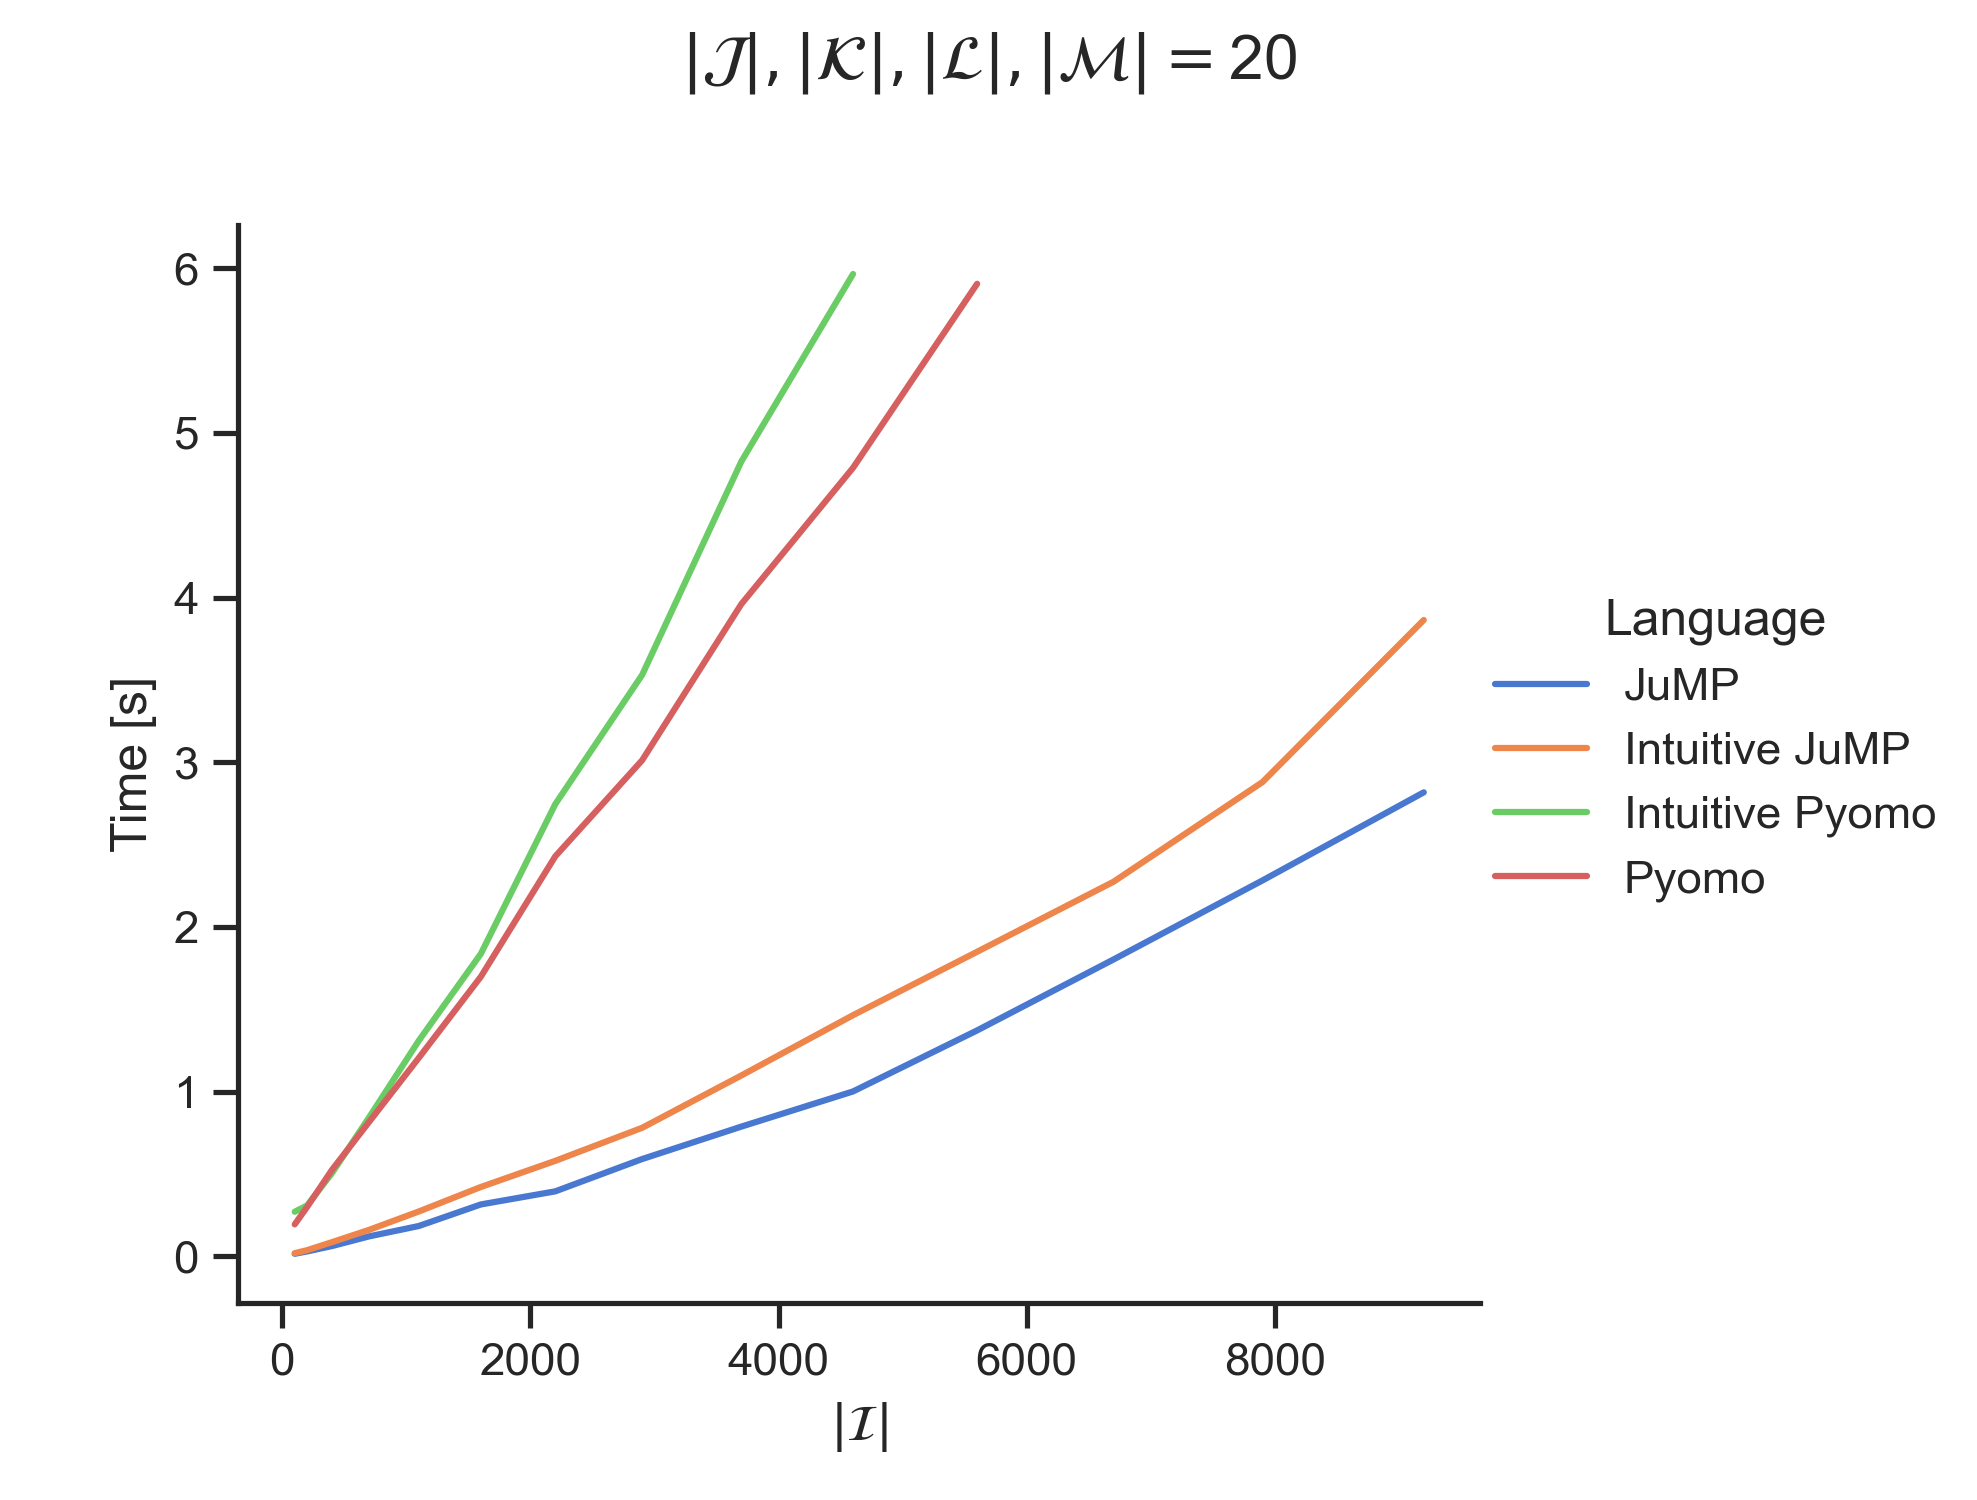
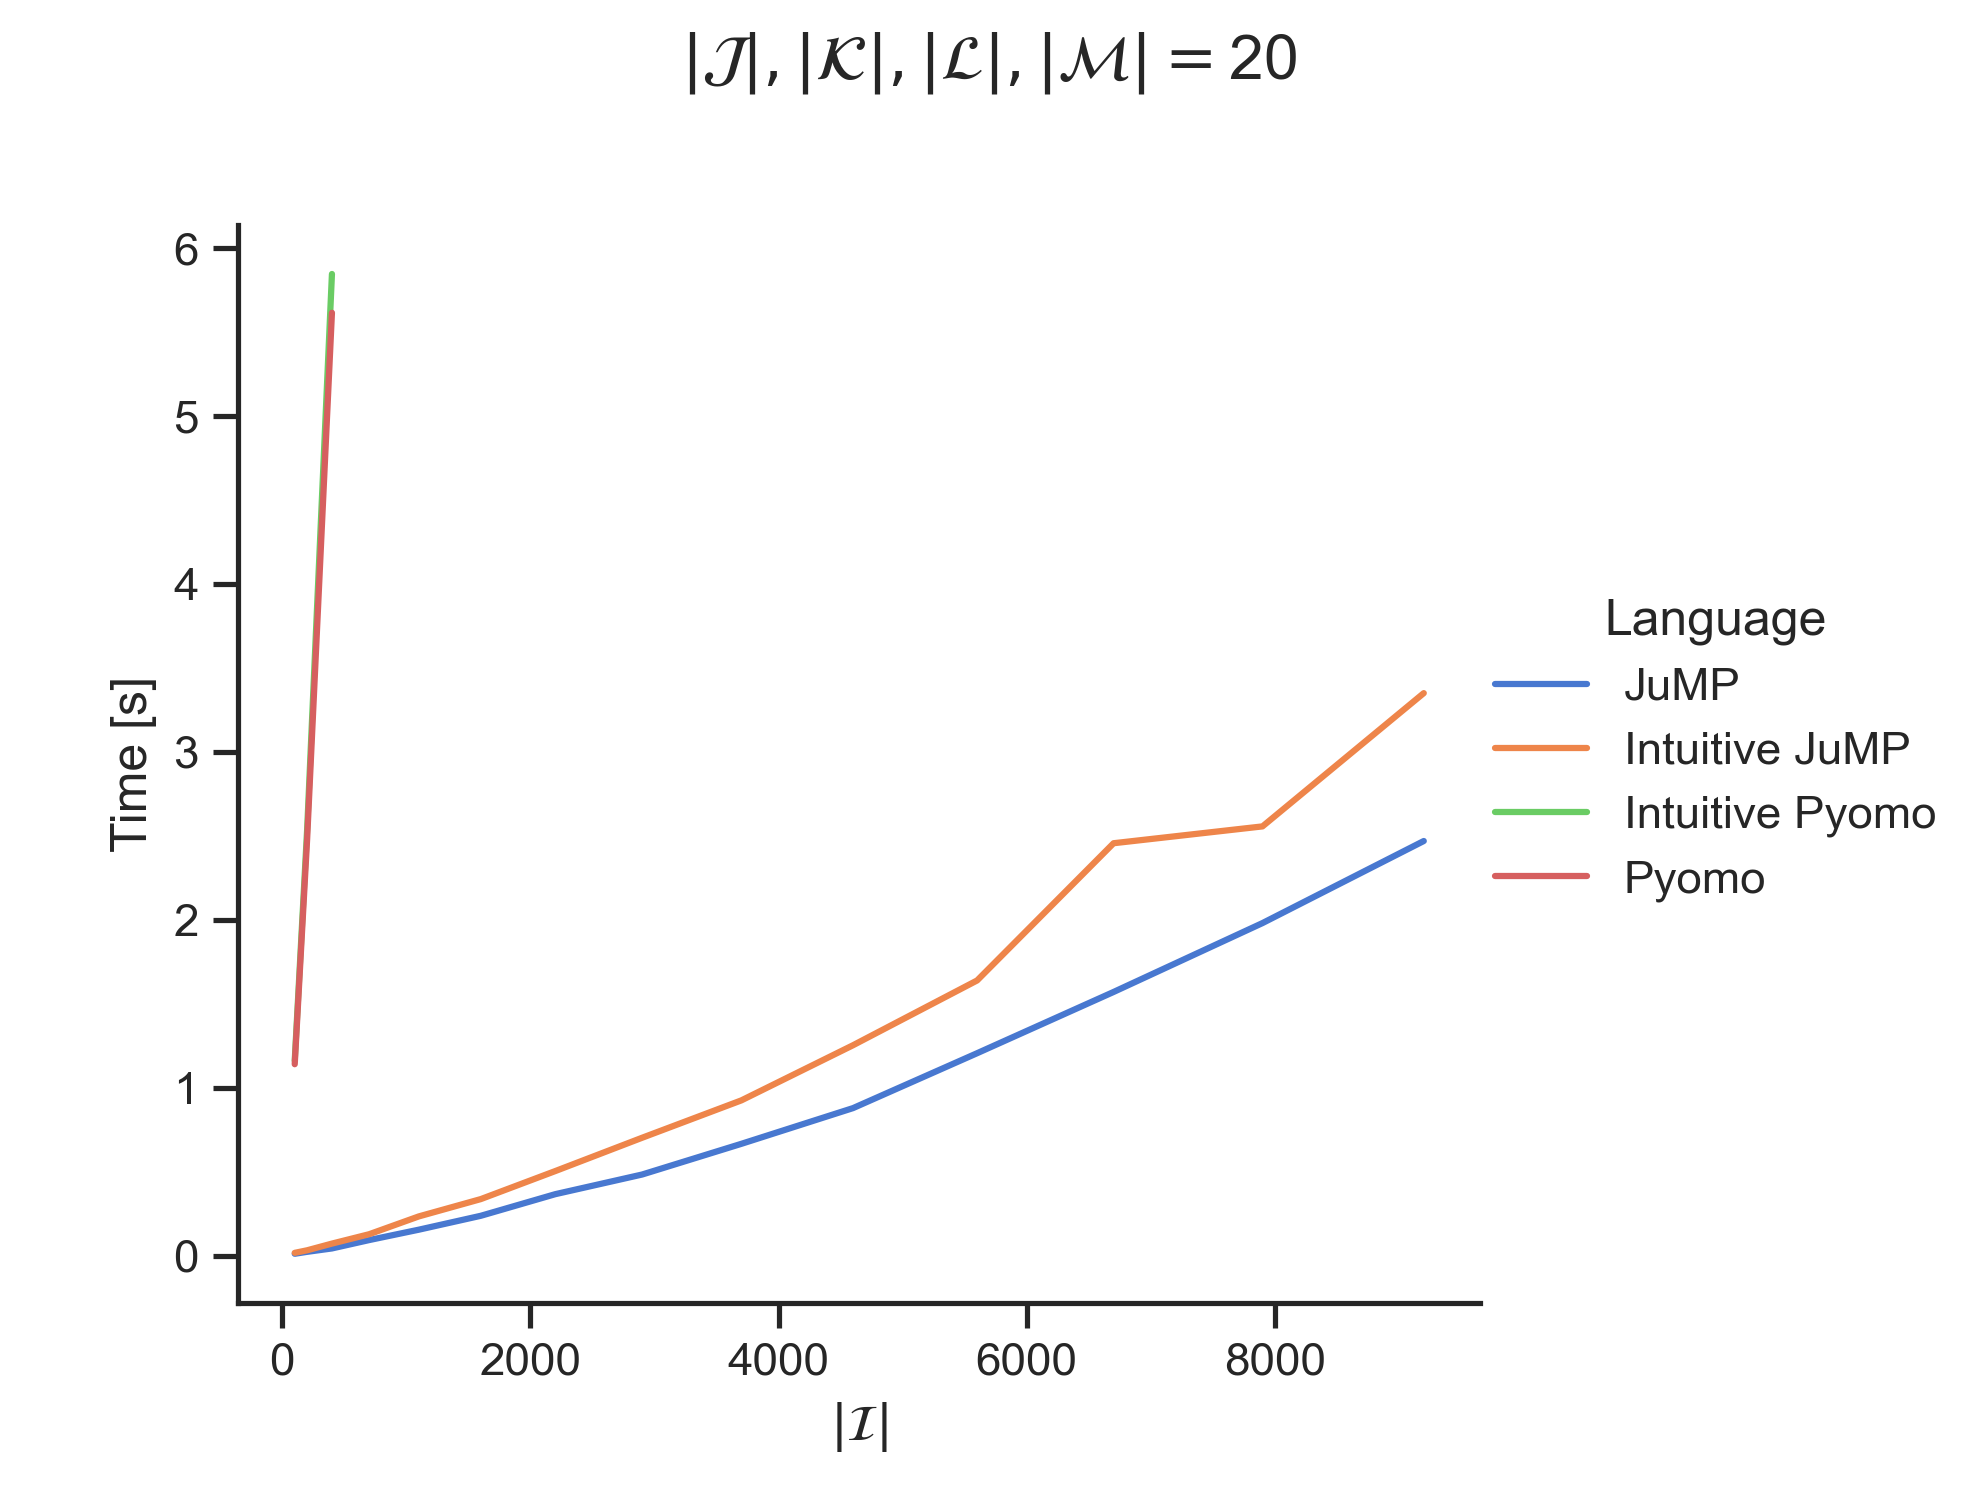
improve data generation for supply chain model

diff --git a/supply_chain/data_generation.py b/supply_chain/data_generation.py
@@ -11,92 +11,35 @@ def create_fixed_data(m):
     K = [f"k{x}" for x in range(1, m + 1)]
     L = [f"l{x}" for x in range(1, m + 1)]
     M = [f"m{x}" for x in range(1, m + 1)]
-
-    JK = pd.DataFrame(
-        np.random.binomial(1, 0.05, size=(len(J) * len(K))),
-        index=pd.MultiIndex.from_product([J, K], names=["j", "k"]),
-        columns=["value"],
-    ).reset_index()
-    KL = pd.DataFrame(
-        np.random.binomial(1, 0.05, size=(len(K) * len(L))),
-        index=pd.MultiIndex.from_product([K, L], names=["k", "l"]),
-        columns=["value"],
-    ).reset_index()
-    lm = {m: random.choice(L) for m in M}
-    LM_dict = {"l": [], "m": [], "value": []}
-    for m in M:
-        for l in L:
-            LM_dict["m"].append(m)
-            LM_dict["l"].append(l)
-            if l in lm[m]:
-                LM_dict["value"].append(1)
-            else:
-                LM_dict["value"].append(0)
-    LM = pd.DataFrame(LM_dict)
-    return J, K, L, M, JK, KL, LM
+    return J, K, L, M
 
 
-def create_variable_data(n, J, K, M, LM):
+def create_variable_data(n, J, K, L, M):
     I = [f"i{x}" for x in range(1, n + 1)]
 
-    IJ = pd.DataFrame(
-        np.random.binomial(1, 0.05, size=(len(I) * len(J))),
-        index=pd.MultiIndex.from_product([I, J], names=["i", "j"]),
-        columns=["value"],
-    ).reset_index()
-    IK = pd.DataFrame(
-        np.random.binomial(1, 0.05, size=(len(I) * len(K))),
-        index=pd.MultiIndex.from_product([I, K], names=["i", "k"]),
-        columns=["value"],
-    ).reset_index()
-    D = pd.DataFrame(
-        np.random.randint(0, 100, size=(len(I) * len(M))),
-        index=pd.MultiIndex.from_product([I, M], names=["i", "m"]),
-        columns=["value"],
-    ).reset_index()
+    IJ = []
+    IK = []
+    JK = []
+    KL = []
+    LM = []
+    d = {(i, m): 0 for i in I for m in M}
 
-    return I, IJ, IK, D
+    share = int(np.ceil(len(J) * 0.05))
 
+    for i in I:
+        jj = random.sample(J, k=share)
+        for j in jj:
+            kk = random.sample(K, k=share)
+            for k in kk:
+                IK.append((i, k))
+                IJ.append((i, j))
+                JK.append((j, k))
 
-def validate_variable_data_and_convert_to_tuples(IJ, JK, IK, KL, D):
-    # check if there is at least one x variable
-    if (
-        IK[IK["value"] == 1]
-        .merge(right=IJ[IJ["value"] == 1])
-        .merge(right=JK[JK["value"] == 1])
-        .empty
-    ):
-        index = JK[JK["value"] == 1].index[0]
-        j = JK.iloc[index]["j"]
-        k = JK.iloc[index]["k"]
-        IJ.at[IJ.loc[(IJ["i"] == "i1") & (IJ["j"] == j)].index[0], "value"] = 1
-        IK.at[IK.loc[(IK["i"] == "i1") & (IK["k"] == k)].index[0], "value"] = 1
-    
-    # check if there is at least one y variable
-    if IK[IK["value"] == 1].merge(right=KL[KL["value"] == 1]).empty:
-        index = KL[KL["value"] == 1].index[0]
-        k = KL.iloc[index]["k"]
-        IK.at[IK.loc[(IK["i"] == "i1") & (IK["k"] == k)].index[0], "value"] = 1
-    
-    # convert to tuples
-    ij = [
-        tuple(x) for x in IJ.loc[IJ["value"] == 1][["i", "j"]].to_dict("split")["data"]
-    ]
-    ik = [
-        tuple(x) for x in IK.loc[IK["value"] == 1][["i", "k"]].to_dict("split")["data"]
-    ]
-    d = {(i, m): v for (i, m, v) in D[["i", "m", "value"]].to_dict("split")["data"]}
-
-    return IJ, IK, ij, ik, d
-
-def fixed_data_to_tuples(JK, KL, LM):
-    jk = [
-        tuple(x) for x in JK.loc[JK["value"] == 1][["j", "k"]].to_dict("split")["data"]
-    ]
-    kl = [
-        tuple(x) for x in KL.loc[KL["value"] == 1][["k", "l"]].to_dict("split")["data"]
-    ]
-    lm = [
-        tuple(x) for x in LM.loc[LM["value"] == 1][["l", "m"]].to_dict("split")["data"]
-    ]
-    return jk, kl, lm
+                ll = random.sample(L, k=share)
+                for l in ll:
+                    KL.append((k, l))
+                    for m in M:
+                        ll = random.sample
+                        LM.append((l, m))
+                        d[(i, m)] = random.randint(0, 100)
+    return I, IJ, IK, JK, KL, LM, d

diff --git a/main_suppy_chain.py b/main_suppy_chain.py
@@ -35,35 +35,32 @@ def run_experiment(
     N = list(incremental_range(100, cardinality_of_i + 1, 100, 100))
 
     # create fixed data and convert to tuples and dicts
-    J, K, L, M, JK, KL, LM = data.create_fixed_data(m=cardinality_of_j)
-    jk_tuple, kl_tuple, lm_tuple = data.fixed_data_to_tuples(JK=JK, KL=KL, LM=LM)
+    J, K, L, M = data.create_fixed_data(m=cardinality_of_j)
 
     # save data to json for JuMP
     save_to_json(N, "N", "", "supply_chain")
     save_to_json(L, "L", "", "supply_chain")
     save_to_json(M, "M", "", "supply_chain")
-    save_to_json(jk_tuple, "JK", "", "supply_chain")
-    save_to_json(kl_tuple, "KL", "", "supply_chain")
-    save_to_json(lm_tuple, "LM", "", "supply_chain")
 
     # run experiment for every n in |I|
     for n in N:
         # create variable data and convert to tuples
-        I, IJ, IK, D = data.create_variable_data(n=n, J=J, K=K, M=M, LM=LM)
         (
-            IJ,
-            IK,
+            I,
             ij_tuple,
             ik_tuple,
+            jk_tuple,
+            kl_tuple,
+            lm_tuple,
             d_dict,
-        ) = data.validate_variable_data_and_convert_to_tuples(
-            IJ=IJ, JK=JK, IK=IK, KL=KL, D=D
-        )
+        ) = data.create_variable_data(n=n, J=J, K=K, L=L, M=M)
 
         # save data to json for JuMP
         save_to_json(ij_tuple, "IJ", f"_{n}", "supply_chain")
         save_to_json(ik_tuple, "IK", f"_{n}", "supply_chain")
-        save_to_json_d(D, "D", f"_{n}", "supply_chain")
+        save_to_json(kl_tuple, "KL", f"_{n}", "supply_chain")
+        save_to_json(lm_tuple, "LM", f"_{n}", "supply_chain")
+        save_to_json_d(d_dict, "D", f"_{n}", "supply_chain")
 
         # Intuitive Pyomo
         if below_time_limit(df_intuitive_pyomo, time_limit):

diff --git a/help.py b/help.py
@@ -29,9 +29,10 @@ def save_to_json(symbol, name, i, model):
         json.dump(symbol, f)
 
 
-def save_to_json_d(df, name, i, model):
+def save_to_json_d(d, name, i, model):
     file = os.path.join(model, "data", f"data_{name}{i}.json")
-    df[["i", "m", "value"]].to_json(file, orient="values")
+    df = pd.DataFrame([(i, m, d[i, m]) for i, m in d], columns=["i", "m", "value"])
+    df.to_json(file, orient="values")
 
 
 def below_time_limit(df, limit):
